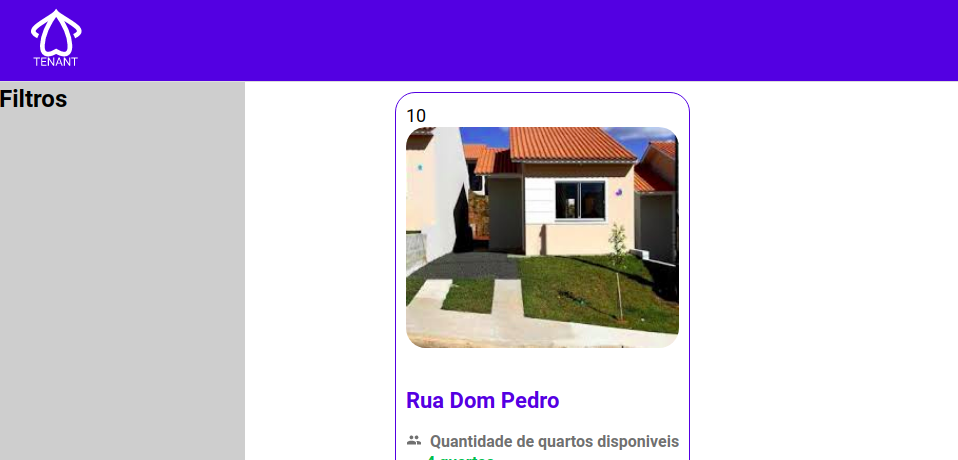
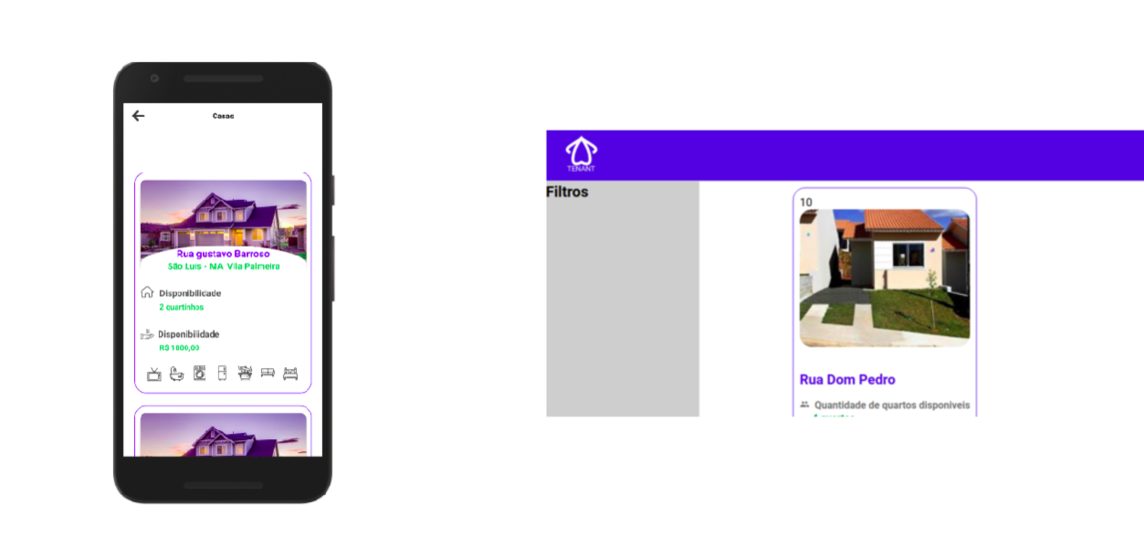
readme figma

diff --git a/README.md b/README.md
@@ -45,9 +45,11 @@ Esse projeto foi desenvolvido com as seguintes tecnologias:
 
 O Tenant é um projeto que visa conectar pessoas e queiram partilhar o mesmo espaço para trabalhar ou morar.
 
+
+
 ## 🔖 Layout
 
-Para abrir utilize a ferramenta [Figma](https://www.figma.com/file/XtzDDh2oeVZSyCpV8UJMTO/Tenant-web?node-id=0%3A1).
+Para abrir o projeto mobile utilize o  [Figma](https://www.figma.com/proto/2PHmqn85OMAa2BrvgGePrt/Tenant-mobile?node-id=3%3A3&scaling=scale-down).
 
 ## 🤔 Como contribuir
 
